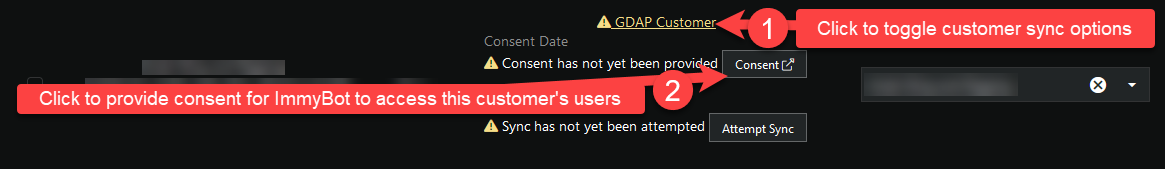
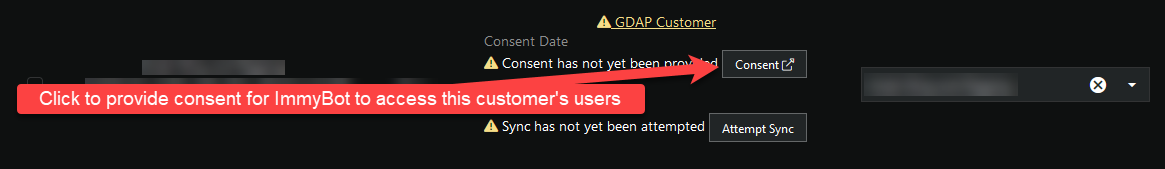
Added a better first screenshot for gdap instructions

Changed region(s): [[0.618, 0.0296, 1.0, 0.2959], [0.4017, 0.3254, 0.6489, 0.6509]]

diff --git a/src/azure-graph-permissions-setup.md b/src/azure-graph-permissions-setup.md
@@ -77,6 +77,8 @@ This step is optional. This is only necessary if you want to sync non-GDAP custo
 
 After enabling GDAP Customer Syncing from the desired Azure permission form on the Azure settings page, you can sync GDAP customers:
 
+![](./.vuepress/images/2022-12-12_12-10-21.png)
+
 ![](./.vuepress/images/2022-12-12_11-26-00.png)
 
 ![](./.vuepress/images/2022-12-12_11-41-18.png)
